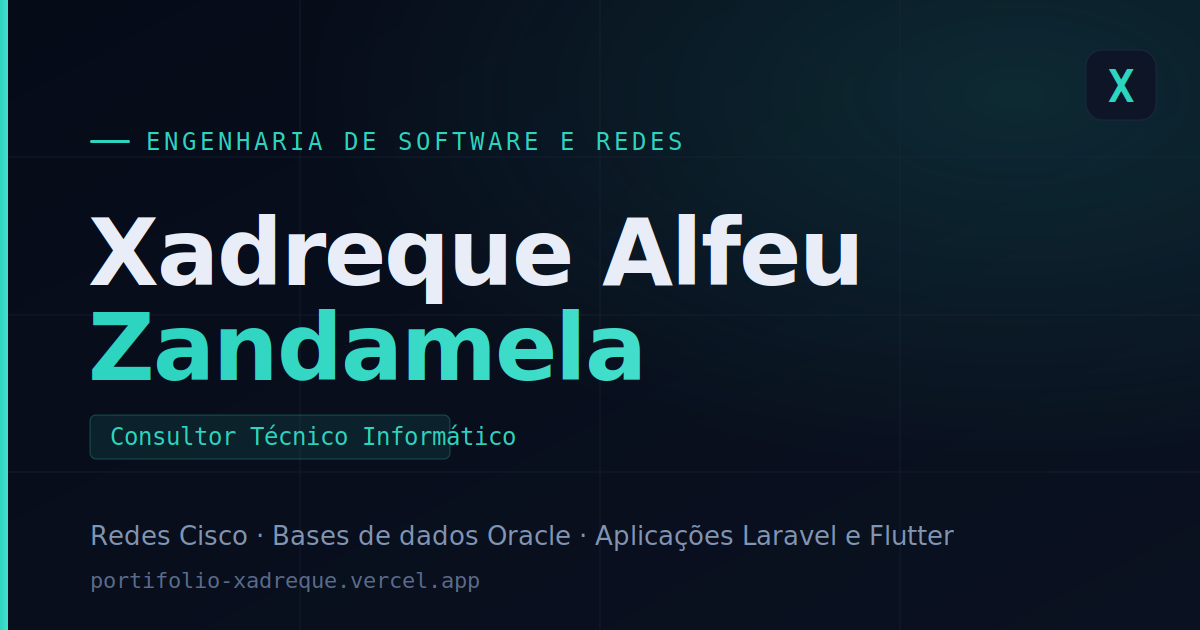
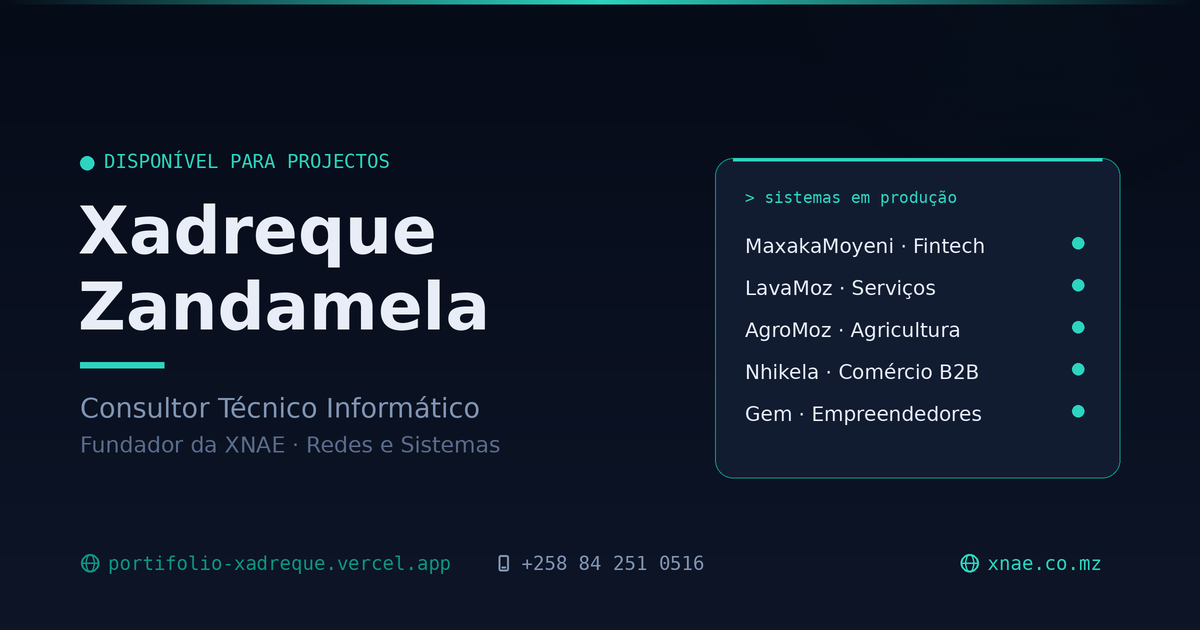
Revisao completa: Empreendedores neutro, Unidade, KaiOS, footer com marca, grafico limpo

diff --git a/index.html b/index.html
@@ -301,7 +301,7 @@ html[data-tema="claro"] .work:hover{box-shadow:0 18px 40px -14px rgba(var(--sign
 /* Gráfico de visitas */
 .grafico-card{background:var(--surface);border:1px solid var(--line);border-radius:16px;padding:24px 26px 20px;margin-bottom:22px;position:relative;overflow:hidden;box-shadow:0 1px 2px rgba(0,0,0,.04)}
 .grafico-card::before{content:'';position:absolute;left:0;top:0;bottom:0;width:2px;background:linear-gradient(180deg,var(--signal),transparent)}
-.grafico-head{display:flex;align-items:flex-start;justify-content:space-between;gap:16px;margin-bottom:18px;flex-wrap:wrap}
+.grafico-head{display:flex;align-items:center;justify-content:space-between;gap:16px;margin-bottom:20px;flex-wrap:wrap}
 .grafico-label{display:block;font-family:var(--mono);font-size:.72rem;letter-spacing:.1em;text-transform:uppercase;color:var(--dim)}
 .grafico-total{display:block;margin-top:8px;font-family:var(--body);font-size:.92rem;color:var(--muted)}
 .grafico-total b{font-family:var(--display);font-size:1.7rem;font-weight:700;color:var(--signal);letter-spacing:-.02em}
@@ -408,6 +408,12 @@ html[data-tema="claro"] .foot-cta-btn{color:#fff}
 .foot-grid{display:grid;grid-template-columns:1fr;gap:32px;padding:44px 0}
 @media(min-width:680px){.foot-grid{grid-template-columns:1.6fr 1fr 1fr}}
 .foot-logo{display:block;font-family:var(--display);font-size:1.15rem;font-weight:600;color:var(--ink);letter-spacing:-.01em;margin-bottom:8px}
+.foot-brand-top{display:flex;align-items:center;gap:14px;margin-bottom:14px}
+.foot-symbol{flex-shrink:0;width:44px;height:44px;border-radius:11px;background:rgba(var(--signal-rgb),.08);border:1px solid rgba(var(--signal-rgb),.22);display:flex;align-items:center;justify-content:center;transition:border-color .3s var(--ease),background .3s,transform .4s var(--ease)}
+.foot-symbol svg{width:26px;height:26px}
+.foot-brand:hover .foot-symbol{border-color:rgba(var(--signal-rgb),.5);background:rgba(var(--signal-rgb),.14);transform:rotate(90deg)}
+.foot-brand-top .foot-logo{margin-bottom:2px}
+.foot-role{display:block;font-family:var(--mono);font-size:.7rem;letter-spacing:.02em;color:var(--signal)}
 .foot-brand p{color:var(--dim);font-size:.86rem;max-width:280px;margin:0}
 .foot-nav{display:flex;flex-direction:column;gap:11px}
 .foot-nav-t{font-family:var(--mono);font-size:.66rem;letter-spacing:.14em;text-transform:uppercase;color:var(--dim);margin-bottom:4px}
@@ -585,15 +591,17 @@ html[data-tema="claro"] .foot-cta-btn{color:#fff}
         <div class="work-body">
           <div class="work-top">
             <h3>MaxakaMoyeni</h3>
-            <span class="work-kind">Fintech</span>
+            <span class="work-kind">Unidade</span>
           </div>
           <p>
-            Sistema para resolver problemas reais do povo e dos comerciantes. Digitaliza o
-            <em>xitique</em> — a poupança rotativa fora do sistema bancário — gerindo ciclos,
-            contribuições e histórico. Junta uma <em>comunidade</em> familiar com
-            <em>amigo oculto</em> online e vários <em>jogos tradicionais</em> (Txuva, Mudjobu
-            e mais), relíquia da cultura moçambicana da zona sul. Tem ainda uma
-            <em>vertente comercial</em> para grandes comerciantes.
+            Sistema que digitaliza a poupança e aproxima pessoas, pensando na abrangência de
+            todos: construído de forma híbrida (do mais baixo ao mais alto nível), com destaque
+            para a integração com <em>KaiOS</em> (para telefones básicos e com acesso a internet),
+            chegando à maioria dos moçambicanos. No centro está o <em>xitique</em> — a poupança
+            rotativa fora do sistema bancário — com gestão de ciclos, contribuições e histórico.
+            Junta uma <em>comunidade</em> familiar com <em>amigo oculto</em> online e vários
+            <em>jogos tradicionais</em> (Txuva, Mudjobu e mais), relíquia da cultura moçambicana
+            da zona sul. Tem ainda uma <em>vertente comercial</em> para grandes comerciantes.
           </p>
         </div>
       </article>
@@ -644,25 +652,27 @@ html[data-tema="claro"] .foot-cta-btn{color:#fff}
         </div>
       </article>
 
-      <!-- ── Gestão de Empreendedoras ── -->
+      <!-- ── Gestão de Empreendedores ── -->
       <article class="work rise d1">
         <div class="shots" data-shots>
           <div class="shots-track">
-            <figure class="slide" data-hint="empreendedoras-1.jpg"><img src="img/empreendedoras-1.jpg" alt="Portal da empreendedora — dashboard"></figure>
+            <figure class="slide" data-hint="empreendedoras-1.jpg"><img src="img/empreendedoras-1.jpg" alt="Portal do empreendedor — dashboard"></figure>
             <figure class="slide" data-hint="empreendedoras-2.jpg"><img src="img/empreendedoras-2.jpg" alt="Gestão de negócios e movimentos"></figure>
             <figure class="slide" data-hint="empreendedoras-3.jpg"><img src="img/empreendedoras-3.jpg" alt="Relatórios por província"></figure>
           </div>
         </div>
         <div class="work-body">
           <div class="work-top">
-            <h3>Gestão de Empreendedoras</h3>
+            <h3>Gestão de Empreendedores</h3>
             <span class="work-kind">Programa nacional</span>
           </div>
           <p>
-            Plataforma de acompanhamento com portal próprio para a empreendedora e administração
-            descentralizada por província. O núcleo é o isolamento de dados: cada administrador
-            provincial vê apenas a sua província, e só o super-administrador atravessa fronteiras.
-            Integra câmbios do Banco de Moçambique, inflação do INE e meteorologia por região.
+            Plataforma de acompanhamento com portal próprio para cada empreendedor e administração
+            descentralizada por província. Inclui uma <em>pasta digital</em> onde cada empreendedor
+            guarda e acede aos seus documentos em tempo real (licenças, documentos pessoais e do
+            negócio), e uma <em>comunidade</em> para partilharem ideias e experiências. Garante
+            isolamento de dados por província e integra câmbios do Banco de Moçambique, inflação
+            do INE e meteorologia por região.
           </p>
         </div>
       </article>
@@ -679,7 +689,7 @@ html[data-tema="claro"] .foot-cta-btn{color:#fff}
         <div class="work-body">
           <div class="work-top">
             <h3>SIGEC</h3>
-            <span class="work-kind">Facturação</span>
+            <span class="work-kind">Facturação Online</span>
           </div>
           <p>
             Sistema de facturação web com um painel de KPIs em linha com as tendências
@@ -713,18 +723,18 @@ html[data-tema="claro"] .foot-cta-btn{color:#fff}
         </div>
       </article>
 
-      <!-- ── Website Jeff ── -->
+      <!-- ── Jeff ── -->
       <article class="work rise d1">
         <div class="shots" data-shots>
           <div class="shots-track">
-            <figure class="slide" data-hint="jeff-1.jpg"><img src="img/jeff-1.jpg" alt="Website Jeff — página inicial"></figure>
-            <figure class="slide" data-hint="jeff-2.jpg"><img src="img/jeff-2.jpg" alt="Website Jeff — secção interna"></figure>
-            <figure class="slide" data-hint="jeff-3.jpg"><img src="img/jeff-3.jpg" alt="Website Jeff — versão móvel"></figure>
+            <figure class="slide" data-hint="jeff-1.jpg"><img src="img/jeff-1.jpg" alt="Jeff — página inicial"></figure>
+            <figure class="slide" data-hint="jeff-2.jpg"><img src="img/jeff-2.jpg" alt="Jeff — secção interna"></figure>
+            <figure class="slide" data-hint="jeff-3.jpg"><img src="img/jeff-3.jpg" alt="Jeff — versão móvel"></figure>
           </div>
         </div>
         <div class="work-body">
           <div class="work-top">
-            <h3>Website Jeff</h3>
+            <h3>Jeff</h3>
             <span class="work-kind">Web institucional</span>
           </div>
           <p>
@@ -736,25 +746,26 @@ html[data-tema="claro"] .foot-cta-btn{color:#fff}
         </div>
       </article>
 
-      <!-- ── Website XNAE ── -->
+      <!-- ── XNAE ── -->
       <article class="work rise d2">
         <div class="shots" data-shots>
           <div class="shots-track">
-            <figure class="slide" data-hint="xnae-1.jpg"><img src="img/xnae-1.jpg" alt="Website XNAE — página inicial"></figure>
-            <figure class="slide" data-hint="xnae-2.jpg"><img src="img/xnae-2.jpg" alt="Website XNAE — serviços"></figure>
-            <figure class="slide" data-hint="xnae-3.jpg"><img src="img/xnae-3.jpg" alt="Website XNAE — contacto"></figure>
+            <figure class="slide" data-hint="xnae-1.jpg"><img src="img/xnae-1.jpg" alt="XNAE — página inicial"></figure>
+            <figure class="slide" data-hint="xnae-2.jpg"><img src="img/xnae-2.jpg" alt="XNAE — serviços"></figure>
+            <figure class="slide" data-hint="xnae-3.jpg"><img src="img/xnae-3.jpg" alt="XNAE — contacto"></figure>
           </div>
         </div>
         <div class="work-body">
           <div class="work-top">
-            <h3>Website <a href="https://xnae.co.mz" target="_blank" rel="noopener" class="xnae-link">XNAE<svg viewBox="0 0 24 24" fill="none" stroke="currentColor" stroke-width="2.4" stroke-linecap="round" stroke-linejoin="round"><path d="M7 17L17 7M9 7h8v8"/></svg></a></h3>
+            <h3><a href="https://xnae.co.mz" target="_blank" rel="noopener" class="xnae-link">XNAE<svg viewBox="0 0 24 24" fill="none" stroke="currentColor" stroke-width="2.4" stroke-linecap="round" stroke-linejoin="round"><path d="M7 17L17 7M9 7h8v8"/></svg></a></h3>
             <span class="work-kind">Marca própria</span>
           </div>
           <p>
-            Site da XNAE, a marca sob a qual presto consultoria técnica em engenharia
-            informática. Apresenta os serviços — redes, bases de dados e desenvolvimento
-            de sistemas — o processo de trabalho e os projectos concluídos, funcionando
-            como porta de entrada comercial para novos clientes.
+            Site oficial da <em>XNAE</em> — Consultoria Técnica em Engenharia Informática.
+            Apresenta os serviços da marca: <em>redes</em> (Cisco), <em>bases de dados</em>
+            (Oracle PL/SQL), <em>segurança</em> lógica e física, e desenvolvimento de sistemas.
+            Mostra o processo de trabalho e os projectos concluídos, funcionando como porta
+            de entrada comercial para novos clientes.
           </p>
         </div>
       </article>
@@ -785,7 +796,7 @@ html[data-tema="claro"] .foot-cta-btn{color:#fff}
       </article>
 
       <article class="layer rise d1">
-        <div class="layer-id"><span class="layer-tier">Camada 2</span><h3>Dados</h3></div>
+        <div class="layer-id"><span class="layer-tier">Camada 2</span><h3>Base de Dados</h3></div>
         <p>Modelação relacional e lógica de negócio dentro da própria base de dados,
            com PL/SQL para procedimentos, gatilhos e rotinas de integridade.</p>
         <div class="chips">
@@ -795,7 +806,7 @@ html[data-tema="claro"] .foot-cta-btn{color:#fff}
       </article>
 
       <article class="layer rise d2">
-        <div class="layer-id"><span class="layer-tier">Camada 3</span><h3>Aplicação</h3></div>
+        <div class="layer-id"><span class="layer-tier">Camada 3</span><h3>Aplicação Web/Mobile</h3></div>
         <p>Aplicações web completas, do modelo de dados à interface, com APIs REST
            e código pensado para durar mais do que a primeira entrega.</p>
         <div class="chips">
@@ -820,10 +831,7 @@ html[data-tema="claro"] .foot-cta-btn{color:#fff}
     <!-- Gráfico de visitas — últimos 14 dias -->
     <div class="grafico-card rise">
       <div class="grafico-head">
-        <div>
-          <span class="grafico-label">Visitas · últimos 14 dias</span>
-          <span class="grafico-total"><b data-metric="visitas">—</b> no total</span>
-        </div>
+        <span class="grafico-label">Visitas · últimos 14 dias</span>
         <span class="grafico-pico" id="grafico-pico"></span>
       </div>
       <div class="grafico-corpo" id="grafico" aria-label="Gráfico de visitas dos últimos 14 dias"></div>
@@ -1046,7 +1054,23 @@ html[data-tema="claro"] .foot-cta-btn{color:#fff}
 
     <div class="foot-grid">
       <div class="foot-brand">
-        <span class="foot-logo">Xadreque Zandamela</span>
+        <div class="foot-brand-top">
+          <span class="foot-symbol" aria-hidden="true">
+            <svg viewBox="0 0 200 200" fill="none">
+              <line x1="60" y1="60" x2="140" y2="140" stroke="var(--signal)" stroke-width="12" stroke-linecap="round"/>
+              <line x1="140" y1="60" x2="60" y2="140" stroke="var(--signal)" stroke-width="12" stroke-linecap="round"/>
+              <circle cx="100" cy="100" r="16" fill="var(--void)" stroke="var(--signal)" stroke-width="8"/>
+              <circle cx="60" cy="60" r="11" fill="var(--signal)"/>
+              <circle cx="140" cy="60" r="11" fill="var(--signal)"/>
+              <circle cx="60" cy="140" r="11" fill="var(--signal)"/>
+              <circle cx="140" cy="140" r="11" fill="var(--signal)"/>
+            </svg>
+          </span>
+          <div>
+            <span class="foot-logo">Xadreque Zandamela</span>
+            <span class="foot-role">Consultor Técnico Informático · Fundador da XNAE</span>
+          </div>
+        </div>
         <p>Engenharia informática e redes. Sistemas em produção para instituições e comércio em Moçambique.</p>
       </div>
       <nav class="foot-nav">
@@ -1299,11 +1323,11 @@ html[data-tema="claro"] .foot-cta-btn{color:#fff}
     var alvo = document.getElementById('grafico');
     if (!alvo) return;
     if (!Array.isArray(serie) || serie.length === 0) {
-      alvo.innerHTML = '<svg viewBox="0 0 600 160"><text x="300" y="85" text-anchor="middle" class="g-vazio">Sem dados ainda — as visitas aparecem aqui à medida que chegam.</text></svg>';
+      alvo.innerHTML = '<svg viewBox="0 0 600 210"><text x="300" y="110" text-anchor="middle" class="g-vazio">Sem dados ainda — as visitas aparecem aqui à medida que chegam.</text></svg>';
       return;
     }
 
-    var W = 600, H = 170, padL = 26, padR = 12, padT = 14, padB = 26;
+    var W = 600, H = 210, padL = 26, padR = 12, padT = 16, padB = 28;
     var innerW = W - padL - padR, innerH = H - padT - padB;
     var n = serie.length;
     var max = Math.max(1, Math.max.apply(null, serie.map(function (p) { return p.visitas; })));
@@ -1548,13 +1572,14 @@ window.I18N = {
   "Plataforma de gestão de serviços com três dashboards distintos: o do\n            atendente para gerir o balcão, o do cliente para acompanhar\n            o progresso dos seus pedidos em tempo real, e o de administração para\n            supervisão do negócio. A autenticação do cliente é feita de forma profissional\n            e moderna, com uma experiência de acesso cuidada.":
     "Service management platform with three distinct dashboards: the attendant's\n            to manage the counter, the client's to track the progress of their requests\n            in real time, and the administration one for business oversight. Client\n            authentication is handled in a professional and modern way, with a carefully\n            crafted sign-in experience.",
 
-  "Sistema concebido para resolver problemas reais do povo, a começar pela\n            digitalização do": "System designed to solve real problems of the people, starting with digitising the",
   "xitique": "xitique",
-  "Sistema para resolver problemas reais do povo e dos comerciantes. Digitaliza o":
-    "A system to solve real problems of the people and merchants. It digitises the",
-  "xitique": "xitique",
-  "— a poupança rotativa fora do sistema bancário — gerindo ciclos,\n            contribuições e histórico. Junta uma":
-    "— the rotating savings scheme outside the banking system — managing cycles,\n            contributions and history. It brings together a",
+  "Sistema que digitaliza a poupança e aproxima pessoas, pensando na abrangência de\n            todos: construído de forma híbrida (do mais baixo ao mais alto nível), com destaque\n            para a integração com":
+    "A system that digitises savings and brings people together, designed for the\n            inclusion of all: built in a hybrid way (from the lowest to the highest level),\n            highlighting the integration with",
+  "KaiOS": "KaiOS",
+  "(para telefones básicos e com acesso a internet),\n            chegando à maioria dos moçambicanos. No centro está o":
+    "(for basic phones and internet-enabled phones),\n            reaching most Mozambicans. At its core is the",
+  "— a poupança\n            rotativa fora do sistema bancário — com gestão de ciclos, contribuições e histórico.\n            Junta uma":
+    "— the rotating\n            savings scheme outside the banking system — with management of cycles, contributions\n            and history. It brings together a",
   "comunidade": "community",
   "familiar com":
     "family",
@@ -1562,13 +1587,14 @@ window.I18N = {
   "online e vários":
     "online and several",
   "jogos tradicionais": "traditional games",
-  "(Txuva, Mudjobu\n            e mais), relíquia da cultura moçambicana da zona sul. Tem ainda uma":
-    "(Txuva, Mudjobu\n            and more), a treasure of southern Mozambican culture. It also has a",
+  "(Txuva, Mudjobu e mais), relíquia da cultura moçambicana\n            da zona sul. Tem ainda uma":
+    "(Txuva, Mudjobu and more), a treasure of southern Mozambican culture\n            of the southern zone. It also has a",
   "vertente comercial": "commercial side",
   "para grandes comerciantes.":
     "for large merchants.",
 
   "Comércio B2B": "B2B Commerce",
+  "Unidade": "Unity",
   "Plataforma multi-instituição de fornecimento de material informático e de escritório.\n            Cada instituição configura marca, catálogo e dados fiscais pelas próprias definições —\n            nada está fixo em ficheiros. Inclui stock com alerta de ruptura, facturação,\n            pagamentos M-Pesa e e-Mola, e interface bilingue.":
     "Multi-tenant platform for supplying IT and office equipment.\n            Each institution sets its own brand, catalogue and tax details through its own settings —\n            nothing is hard-coded. Includes stock with low-stock alerts, invoicing,\n            M-Pesa and e-Mola payments, and a bilingual interface.",
 
@@ -1576,12 +1602,15 @@ window.I18N = {
   "Sistema de informação agronómica com 73 culturas em 9 categorias, cada uma com\n            ficha técnica completa. A decisão de arquitectura que o define: uma camada para\n            KaiOS, para chegar aos telefones básicos onde está a maioria dos agricultores\n            moçambicanos — e não ao smartphone que eles não têm.":
     "Agronomic information system with 73 crops across 9 categories, each with\n            a full technical sheet. The defining architectural choice: a KaiOS layer,\n            to reach the basic phones where most Mozambican farmers actually are —\n            not the smartphone they don't have.",
 
-  "Gestão de Empreendedoras": "Women Entrepreneurs Management",
+  "Gestão de Empreendedores": "Entrepreneurs Management",
   "Programa nacional": "National programme",
-  "Plataforma de acompanhamento com portal próprio para a empreendedora e administração\n            descentralizada por província. O núcleo é o isolamento de dados: cada administrador\n            provincial vê apenas a sua província, e só o super-administrador atravessa fronteiras.\n            Integra câmbios do Banco de Moçambique, inflação do INE e meteorologia por região.":
-    "Tracking platform with its own portal for each entrepreneur and administration\n            decentralised by province. At its core is data isolation: each provincial admin\n            sees only their province, and only the super-admin crosses boundaries.\n            It integrates Bank of Mozambique exchange rates, INE inflation and regional weather.",
+  "Plataforma de acompanhamento com portal próprio para cada empreendedor e administração\n            descentralizada por província. Inclui uma": "Monitoring platform with a dedicated portal for each entrepreneur and\n            province-decentralised administration. It includes a",
+  "pasta digital": "digital folder",
+  "onde cada empreendedor\n            guarda e acede aos seus documentos em tempo real (licenças, documentos pessoais e do\n            negócio), e uma": "where each entrepreneur\n            stores and accesses their documents in real time (licences, personal and business\n            documents), and a",
+  "comunidade": "community",
+  "para partilharem ideias e experiências. Garante\n            isolamento de dados por província e integra câmbios do Banco de Moçambique, inflação\n            do INE e meteorologia por região.": "to share ideas and experiences. It ensures\n            data isolation per province and integrates exchange rates from the Bank of Mozambique,\n            INE inflation data and regional weather.",
 
-  "Facturação": "Invoicing",
+  "Facturação Online": "Online Invoicing",
   "Sistema de facturação web com um painel de KPIs em linha com as tendências\n            modernas de gestão — indicadores de vendas, cobrança e desempenho apresentados\n            de forma clara e accionável. Integra com o Microsoft Power BI, levando os dados\n            de facturação para relatórios analíticos e dashboards de decisão.":
     "Web invoicing system with a KPI dashboard aligned with modern\n            management trends — sales, collection and performance indicators presented\n            clearly and ready to act on. It integrates with Microsoft Power BI, taking\n            invoicing data into analytical reports and decision dashboards.",
 
@@ -1594,8 +1623,14 @@ window.I18N = {
     "Corporate website for an accounting consultancy, designed and\n            built from scratch. It presents the firm's services and credibility with\n            a clear structure, fast reading on slow connections and performance treated\n            as a requirement from the start.",
 
   "Marca própria": "Own brand",
-  "Site da XNAE, a marca sob a qual presto consultoria técnica em engenharia\n            informática. Apresenta os serviços — redes, bases de dados e desenvolvimento\n            de sistemas — o processo de trabalho e os projectos concluídos, funcionando\n            como porta de entrada comercial para novos clientes.":
-    "Website for XNAE, the brand under which I provide technical consulting in\n            computer engineering. It presents the services — networks, databases and systems\n            development — the way I work and completed projects, serving as\n            the commercial entry point for new clients.",
+  "Site oficial da": "Official website of",
+  "— Consultoria Técnica em Engenharia Informática.\n            Apresenta os serviços da marca:": "— Technical Consulting in Computer Engineering.\n            It presents the brand's services:",
+  "redes": "networks",
+  "(Cisco),": "(Cisco),",
+  "bases de dados": "databases",
+  "(Oracle PL/SQL),": "(Oracle PL/SQL),",
+  "segurança": "security",
+  "lógica e física, e desenvolvimento de sistemas.\n            Mostra o processo de trabalho e os projectos concluídos, funcionando como porta\n            de entrada comercial para novos clientes.": "logical and physical, and systems development.\n            It shows the way I work and completed projects, serving as a commercial\n            entry point for new clients.",
 
   // Stack
   "Stack técnica": "Technical stack",
@@ -1608,12 +1643,12 @@ window.I18N = {
     "Design, deployment and monitoring of corporate networks. Segmentation,\n           routing and troubleshooting on Cisco architectures.",
   "Segmentação": "Segmentation",
   "Camada 2": "Layer 2",
-  "Dados": "Data",
+  "Base de Dados": "Database",
   "Modelação relacional e lógica de negócio dentro da própria base de dados,\n           com PL/SQL para procedimentos, gatilhos e rotinas de integridade.":
     "Relational modelling and business logic inside the database itself,\n           with PL/SQL for procedures, triggers and integrity routines.",
   "Modelação": "Modelling",
   "Camada 3": "Layer 3",
-  "Aplicação": "Application",
+  "Aplicação Web/Mobile": "Web/Mobile Application",
   "Aplicações web completas, do modelo de dados à interface, com APIs REST\n           e código pensado para durar mais do que a primeira entrega.":
     "Full web applications, from data model to interface, with REST APIs\n           and code built to last beyond the first release.",
 
@@ -1622,7 +1657,6 @@ window.I18N = {
   "Tráfego deste site e actividade no repositório, lidos das APIs no momento\n         em que abriu a página.":
     "This site's traffic and repository activity, read from the APIs the moment\n         you opened the page.",
   "Visitas · últimos 14 dias": "Visits · last 14 days",
-  "no total": "in total",
   "Leitura": "Reading",
   "a ligar": "connecting",
   "Visitas totais": "Total visits",
